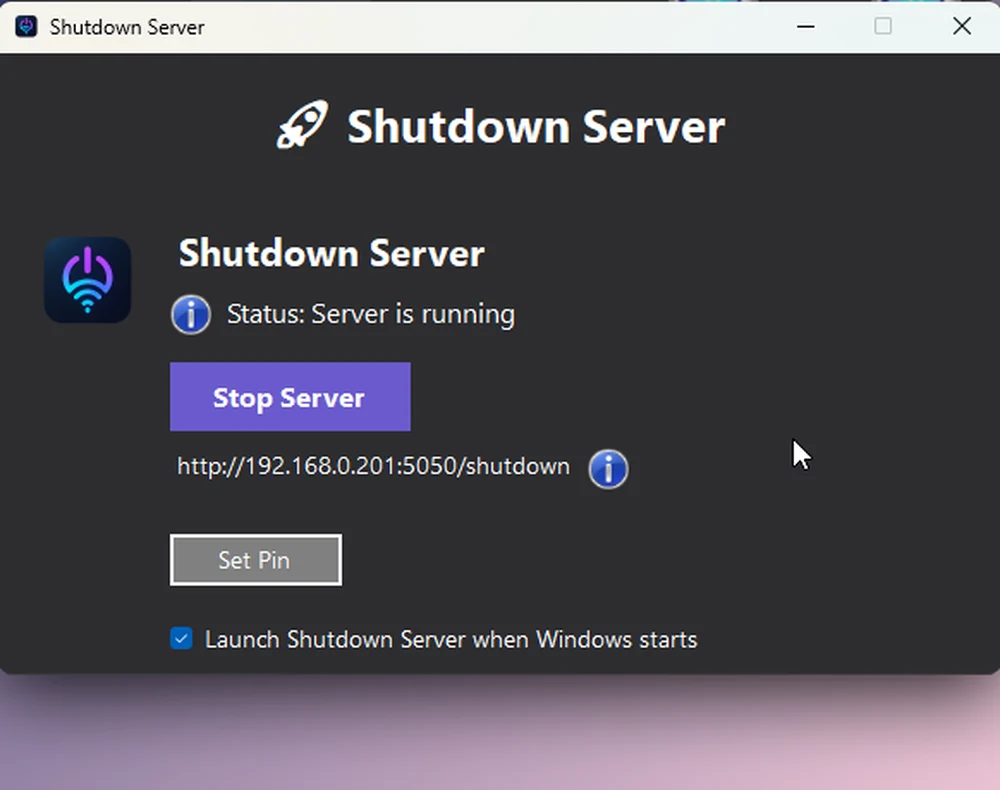
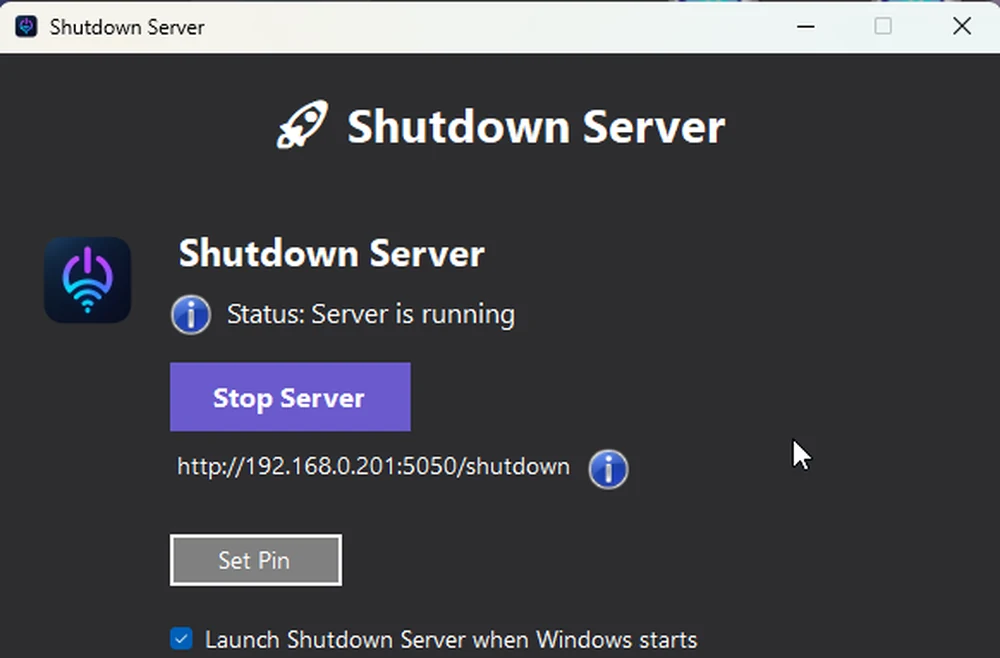
Crop the Shutdown Server plate to the window, not its shadow
My first crop (y: 80 to 540) measured the window's bottom edge from a coarse
column scan that caught the drop shadow fading into the desktop wallpaper
behind it and mistook that gradient for solid window background. The window's
actual dark background ends around y=465 — everything past that was already
shadow-into-wallpaper, which is exactly the pink bleed visible at the plate's
bottom corners.

Recropped to y: 80–463, where both edges are still flat window colour with
no rounding or shadow creeping in. The window's own shape is wider than the
default 16:10 plate, so it keeps its native ratio (582/383) rather than
being cropped a second time to fit.

diff --git a/utils/inkContent.ts b/utils/inkContent.ts
@@ -117,6 +117,11 @@ const FUELTRACKER_IMAGE = {
 const SHUTITDOWN_IMAGE = {
   src: '/shutdown-server-1000.webp',
   srcSet: '/shutdown-server-700.webp 700w, /shutdown-server-1000.webp 1000w',
+  /* Cropped tight to the window itself — its corners are rounded, so cropping
+     any looser than this lets the desktop wallpaper behind it bleed back in
+     at the edges. That native shape is wider than the other plates' 16:10,
+     so it gets its own ratio rather than being cropped again to fit. */
+  ratio: '582 / 383',
 };
 
 export const EMAIL = 'mehdi.ouladkhlie@outlook.be';
